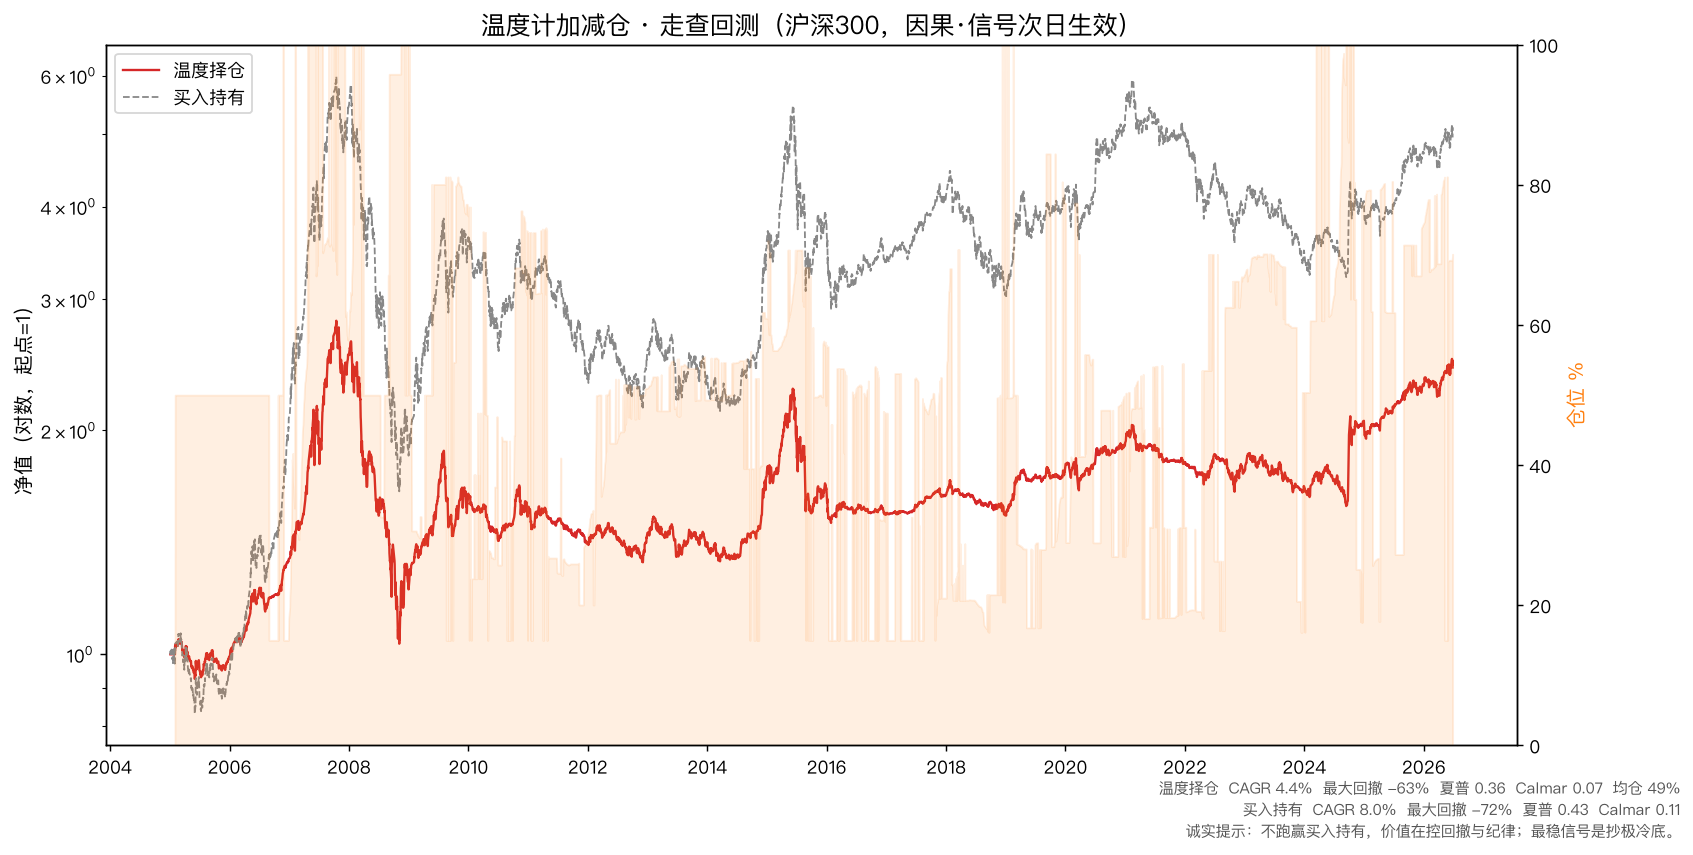
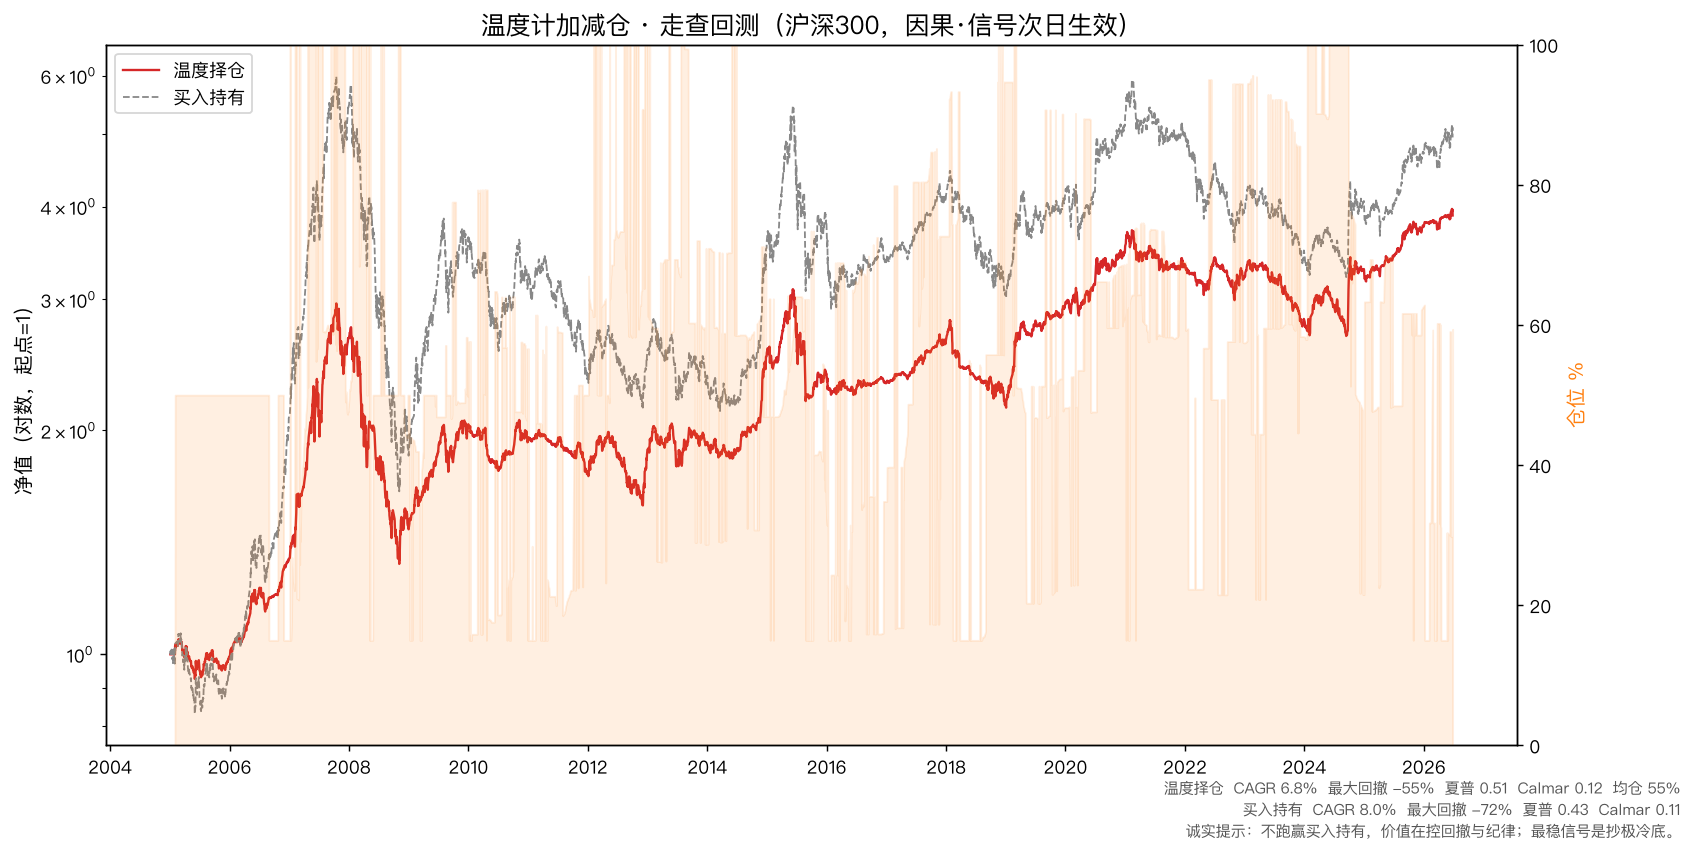
feat(thermometer): 加入证券化率第5因子(沪深300前向IC最强 −0.52)
筛查 7 个缓存对沪深300前向IC，证券化率(总市值/GDP,巴菲特)最强(120日−0.52)却未用上。
加成第5因子(方向high)+回收两融过度权重(顶部47→25%)。跨3指数走查全面变好：
中证全指 Calmar 0.09→0.16、沪深300 0.07→0.12、中证500 0.14→0.19；
沪深300走查 CAGR 4.4→6.8%、回撤−63→−55%，Calmar 0.12 略胜买入持有。
当下读数 净+25→+34、目标仓位70→59%(总量贵→更防守)。详见设计 §8。

关键区别(对照§7)：重新加权老因子=平局，加带新信息的强因子=真改进。

diff --git a/tests/test_thermometer.py b/tests/test_thermometer.py
@@ -53,14 +53,15 @@ def _patch_raw(monkeypatch, raws):
 
 
 def test_compose_weighted_value(monkeypatch):
-    """常数序列 → 各指标分位=100；按已知方向/权重得可预测温度。"""
+    """常数序列 → 各指标分位=100；按已知方向/权重得可预测温度（5 因子）。"""
     n = 60
     const = _series([5.0] * n)
-    _patch_raw(monkeypatch, {"pe": const, "pb": const, "erp": const, "sentiment": const})
+    _patch_raw(monkeypatch, {k: const for k in
+                             ("pe", "pb", "erp", "sentiment", "securitization")})
     out = th.compute_temperature("CN", "top", config_path=None)
-    # pe/pb/sentiment direction=high → hot 100；erp direction=low → hot 0
-    # top = 0.24*100 + 0.06*100 + 0.47*100 + 0.23*0 = 77
-    assert abs(out["temperature"].iloc[-1] - 77.0) < 1e-6
+    # 高方向(sec/sent/pe/pb)→hot 100；erp(低方向)→hot 0
+    # top = (0.25+0.25+0.15+0.15)*100 + 0.20*0 = 80
+    assert abs(out["temperature"].iloc[-1] - 80.0) < 1e-6
 
 
 def test_missing_data_renormalizes(monkeypatch):
@@ -68,19 +69,21 @@ def test_missing_data_renormalizes(monkeypatch):
     n = 60
     const = _series([5.0] * n)
     short = _series([5.0] * 5, start="2020-02-25")    # 仅最后几天有 sentiment
-    _patch_raw(monkeypatch, {"pe": const, "pb": const, "erp": const, "sentiment": short})
+    _patch_raw(monkeypatch, {"pe": const, "pb": const, "erp": const,
+                             "securitization": const, "sentiment": short})
     out = th.compute_temperature("CN", "top", config_path=None)
     early = out["temperature"].iloc[0]
-    # 早期无 sentiment：wsum=0.24+0.23+0.06=0.53；temp=(24+0+6)/0.53≈56.6
+    # 早期无 sentiment：wsum=0.25(sec)+0.20(erp)+0.15(pe)+0.15(pb)=0.75
+    # temp=(25+0+15+15)/0.75
     assert not np.isnan(early)
-    assert abs(early - 30.0 / 0.53) < 1e-6
+    assert abs(early - 55.0 / 0.75) < 1e-6
 
 
 def test_net_temperature_sign(monkeypatch):
     """构造贵+拥挤的市场 → 顶部高、底部低、净为正。"""
     n = 80
-    rising = _series(range(n))             # 估值/杠杆单调走高
-    _patch_raw(monkeypatch, {"pe": rising, "pb": rising,
+    rising = _series(range(n))             # 估值/杠杆/证券化率单调走高
+    _patch_raw(monkeypatch, {"pe": rising, "pb": rising, "securitization": rising,
                              "erp": _series(range(n, 0, -1)),  # ERP 走低=越来越贵
                              "sentiment": rising})
     nt = th.net_temperature("CN", config_path=None)

diff --git a/quantlab/signals/thermometer.py b/quantlab/signals/thermometer.py
@@ -22,22 +22,29 @@ import pandas as pd
 from quantlab.datasources import valuation_source as vs
 from quantlab.datasources.macro_source import historical_percentile
 
-DIRECTION = {"pe": "high", "pb": "high", "erp": "low", "sentiment": "high"}
+# securitization=证券化率(总市值/GDP,巴菲特指标)，高=贵；实测对沪深300前向 IC 最强(−0.52)。
+DIRECTION = {"pe": "high", "pb": "high", "erp": "low", "sentiment": "high",
+             "securitization": "high"}
 
-# v1 默认权重（已按 5→4 指标重归一化；见详细设计 §1）。config.yaml 可覆盖。
+# v1.1 默认权重（5 因子；加入证券化率、回收两融的过度权重）。config.yaml 可覆盖。
+# 顶部=过热(抓泡沫)：证券化率+两融+ERP 主导；底部=恐慌(抓机会)：ERP+PB+证券化率 主导。
 DEFAULT_WEIGHTS = {
-    ("CN", "top"):    {"pe": 0.24, "erp": 0.23, "pb": 0.06, "sentiment": 0.47},
-    ("CN", "bottom"): {"pe": 0.19, "erp": 0.36, "pb": 0.33, "sentiment": 0.12},
+    ("CN", "top"):    {"securitization": 0.25, "sentiment": 0.25, "erp": 0.20, "pe": 0.15, "pb": 0.15},
+    ("CN", "bottom"): {"securitization": 0.22, "erp": 0.30, "pb": 0.28, "pe": 0.10, "sentiment": 0.10},
 }
 
 
 def _raw_indicators(data_root: str, refresh: bool) -> dict[str, pd.Series]:
-    """4 个原始指标序列。sentiment v1 = 两融占比（换手率延后 v1.1）。"""
+    """5 个原始指标序列。sentiment=两融占比；securitization=证券化率(巴菲特指标)。"""
+    from quantlab.datasources.macro_source import china_securitization
+    sec = china_securitization(data_root, refresh)["ratio"].sort_index()
+    sec = sec[~sec.index.duplicated(keep="last")].rename("securitization")
     return {
         "pe": vs.cn_market_pe(data_root, refresh),
         "pb": vs.cn_market_pb(data_root, refresh),
         "erp": vs.cn_erp(data_root, refresh),
         "sentiment": vs.cn_margin_ratio(data_root, refresh),
+        "securitization": sec,
     }
 
 